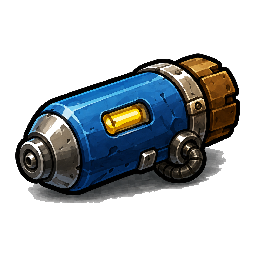
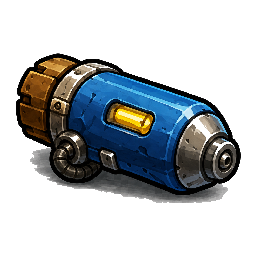
Player sprites, muzzle-flash shooting fx, and peashooter muzzle fix
- Wire 3 PNG player characters (Sprout/Chunk/Zip) with a new dark-vignette
  background keyer (keyDark in crop tool); drawSpudBody prefers the PNG
- Peashooter now fires from its brass "pen" nozzle (flipped spark_weapon.png
  so the barrel faces the aim direction)
- Better shooting animations: oriented muzzle flash (star flare + glow),
  forward spark streaks, and a per-shot recoil kick on the weapon sprite

diff --git a/js/08-render.js b/js/08-render.js
@@ -276,6 +276,8 @@ function drawArenaWeapon(player) {
     ctx.globalAlpha = overlapEnemy ? 0.54 : 0.94;
     ctx.translate(slot.x, slot.y);
     ctx.rotate(angle);
+    // Recoil kick: shove the weapon back along its aim (local -x) right after firing.
+    if (weapon.recoil > 0) ctx.translate(-weapon.recoil, 0);
     ctx.scale(scale * breathe, scale * breathe);
     if (arenaArt) {
       // Tile-less weapon PNG: draw it centered, sized to the sprite footprint. Kept
@@ -895,6 +897,28 @@ function drawWeaponSpriteShape(targetCtx, weapon) {
 }
 
 function drawSpudBody(targetCtx, character, hurt = false) {
+  // Redesigned PNG character art, when available: draw it centered in the same local space
+  // the code body uses (roughly a 64-wide sprite around origin, feet near y=+30). The
+  // caller already applied bob/lean/squash, so this stays a plain centered draw plus a
+  // red hurt flash re-stamp using the sprite's own alpha.
+  const art = characterArt(character);
+  if (art) {
+    const size = 88;
+    const dx = -size / 2, dy = -size / 2 - 6;
+    targetCtx.imageSmoothingEnabled = true;
+    targetCtx.drawImage(art, dx, dy, size, size);
+    if (hurt) {
+      // Re-stamp the sprite as a red silhouette (using its own alpha) for the hit flash,
+      // like the enemy flash — no clipping side effects on the rest of the scene.
+      targetCtx.save();
+      targetCtx.globalCompositeOperation = "lighter";
+      targetCtx.globalAlpha = 0.5;
+      targetCtx.drawImage(art, dx, dy, size, size);
+      targetCtx.restore();
+    }
+    return;
+  }
+
   const time = performance.now();
   const leafWiggle = Math.sin(time / 520) * 0.16;
   const blink = Math.sin(time / 1150) > 0.965;
@@ -2417,6 +2441,50 @@ function drawParticle(particle) {
     ctx.lineWidth = 3 * (1 - progress) + 1;
     ctx.beginPath();
     ctx.arc(particle.x, particle.y, radius, 0, Math.PI * 2);
+    ctx.stroke();
+    ctx.restore();
+    return;
+  }
+  if (particle.type === "muzzle") {
+    // Oriented flash: a bright four-point star + glow cone at the barrel, fading fast.
+    const t = clamp(particle.life / (particle.maxLife ?? 0.09), 0, 1);   // 1 -> 0
+    const s = (particle.size ?? 1) * (0.7 + t * 0.5);
+    ctx.translate(particle.x, particle.y);
+    ctx.rotate(particle.angle ?? 0);
+    ctx.globalCompositeOperation = "lighter";
+    ctx.globalAlpha = t;
+    // soft glow
+    const glow = ctx.createRadialGradient(0, 0, 0, 0, 0, 22 * s);
+    glow.addColorStop(0, particle.color);
+    glow.addColorStop(0.4, "rgba(255,190,90,0.5)");
+    glow.addColorStop(1, "rgba(255,150,60,0)");
+    ctx.fillStyle = glow;
+    ctx.beginPath();
+    ctx.arc(0, 0, 22 * s, 0, Math.PI * 2);
+    ctx.fill();
+    // forward star flare
+    ctx.fillStyle = "#fff7e0";
+    ctx.beginPath();
+    const long = 26 * s, shortR = 6 * s;
+    ctx.moveTo(long, 0);
+    ctx.lineTo(shortR * 0.6, shortR);
+    ctx.lineTo(-shortR, 0);
+    ctx.lineTo(shortR * 0.6, -shortR);
+    ctx.closePath();
+    ctx.fill();
+    ctx.restore();
+    return;
+  }
+  if (particle.type === "spark") {
+    const t = clamp(particle.life / (particle.maxLife ?? 0.14), 0, 1);
+    ctx.globalCompositeOperation = "lighter";
+    ctx.globalAlpha = t;
+    ctx.strokeStyle = particle.color;
+    ctx.lineWidth = (particle.radius ?? 2) * t;
+    ctx.lineCap = "round";
+    ctx.beginPath();
+    ctx.moveTo(particle.x, particle.y);
+    ctx.lineTo(particle.x - particle.vx * 0.02, particle.y - particle.vy * 0.02);
     ctx.stroke();
     ctx.restore();
     return;

diff --git a/js/07-combat.js b/js/07-combat.js
@@ -443,6 +443,8 @@ function fireEquippedWeapons(dt) {
   for (let index = 0; index < count; index += 1) {
     const weapon = state.weapons[index];
     weapon.fireCooldown = Math.max(0, (weapon.fireCooldown ?? 0) - dt);
+    // Recoil springs back to 0 quickly (a snappy kick, not a slow drift).
+    if (weapon.recoil > 0) weapon.recoil = Math.max(0, weapon.recoil - dt * 55);
     if (weapon.fireCooldown > 0) {
       continue;
     }
@@ -476,7 +478,15 @@ function fireWeaponFromSlot(weapon, slot, target) {
   const baseAngle = Math.atan2(target.y - slot.y, target.x - slot.x);
   const muzzle = getWeaponMuzzleWorld(weapon, slot, baseAngle, scale);
   const angle = Math.atan2(target.y - muzzle.y, target.x - muzzle.x);
-  burst(muzzle.x, muzzle.y, profile.impactColor ?? "#fff0a8", 3);
+  // Snappy muzzle flash + recoil kick so shooting reads with punch. Flamethrower/heavy
+  // guns get a bigger flash; the recoil shoves the weapon sprite back along its aim.
+  const heavy = weapon.name === "Grenade Launcher" || weapon.name === "Scrap Revolver";
+  const flashColor = weapon.name === "Twig Wand" ? "#bfe6ff"
+    : weapon.name === "Tin Dragon Flamethrower" ? "#ffb04a"
+    : profile.impactColor ?? "#ffe6a0";
+  spawnMuzzleFlash(muzzle.x, muzzle.y, angle, flashColor, heavy ? 1.5 : 1);
+  weapon.recoil = heavy ? 7 : 4.5;          // px kickback, decays in updateWeapons
+  weapon.recoilAngle = angle;
   playSfx(
     weapon.name === "Tin Dragon Flamethrower"
       ? "flame"

diff --git a/js/00-fx.js b/js/00-fx.js
@@ -34,6 +34,40 @@ function spawnRing(x, y, color, maxRadius, life = 0.3) {
   });
 }
 
+// Muzzle flash: a short-lived oriented burst at the gun barrel when it fires. Drawn as a
+// bright star/cone pointing along the shot so shooting reads with a snappy pop of light,
+// plus a couple of spark streaks. `angle` is the shot direction (radians).
+function spawnMuzzleFlash(x, y, angle, color = "#ffe6a0", size = 1) {
+  state.particles.push({
+    type: "muzzle",
+    x,
+    y,
+    vx: 0,
+    vy: 0,
+    angle,
+    color,
+    size,
+    life: 0.09,
+    maxLife: 0.09
+  });
+  // a few forward spark streaks for extra energy
+  for (let i = 0; i < 3; i += 1) {
+    const spread = (Math.sin(x * 0.7 + i * 2.3) * 0.5) * 0.5;   // deterministic jitter
+    const spd = 120 + i * 40;
+    state.particles.push({
+      type: "spark",
+      x,
+      y,
+      vx: Math.cos(angle + spread) * spd,
+      vy: Math.sin(angle + spread) * spd,
+      color,
+      radius: 2.2 - i * 0.4,
+      life: 0.14,
+      maxLife: 0.14
+    });
+  }
+}
+
 // Death pop: keeps the enemy's sprite on screen for a moment so it can squash,
 // spin slightly, and fade instead of vanishing on the frame it dies.
 function spawnEnemyDeath(enemy) {

diff --git a/js/00-assets.js b/js/00-assets.js
@@ -66,6 +66,11 @@ const ART_SOURCES = {
 
   "mutation:eye": "assets/mutations/steady_eye.png",
 
+  // Player characters - drawn as the player body in-arena and in the select/preview.
+  "character:sprout": "assets/characters/sprout.png",
+  "character:chunk": "assets/characters/chunk.png",
+  "character:zip": "assets/characters/zip.png",
+
   // Environment objects drawn in the arena.
   "env:crate": "assets/environment/crate.png",
   "env:crate_broken": "assets/environment/crate_broken.png",
@@ -106,6 +111,10 @@ const ENEMY_NO_FLIP = new Set(["Bruiser"]);
 
 function enemyArt(name) {
   return artFor(`enemy:${name}`);
+}
+
+function characterArt(character) {
+  return character && character.id ? artFor(`character:${character.id}`) : null;
 }
 
 function crateArt(broken) {
